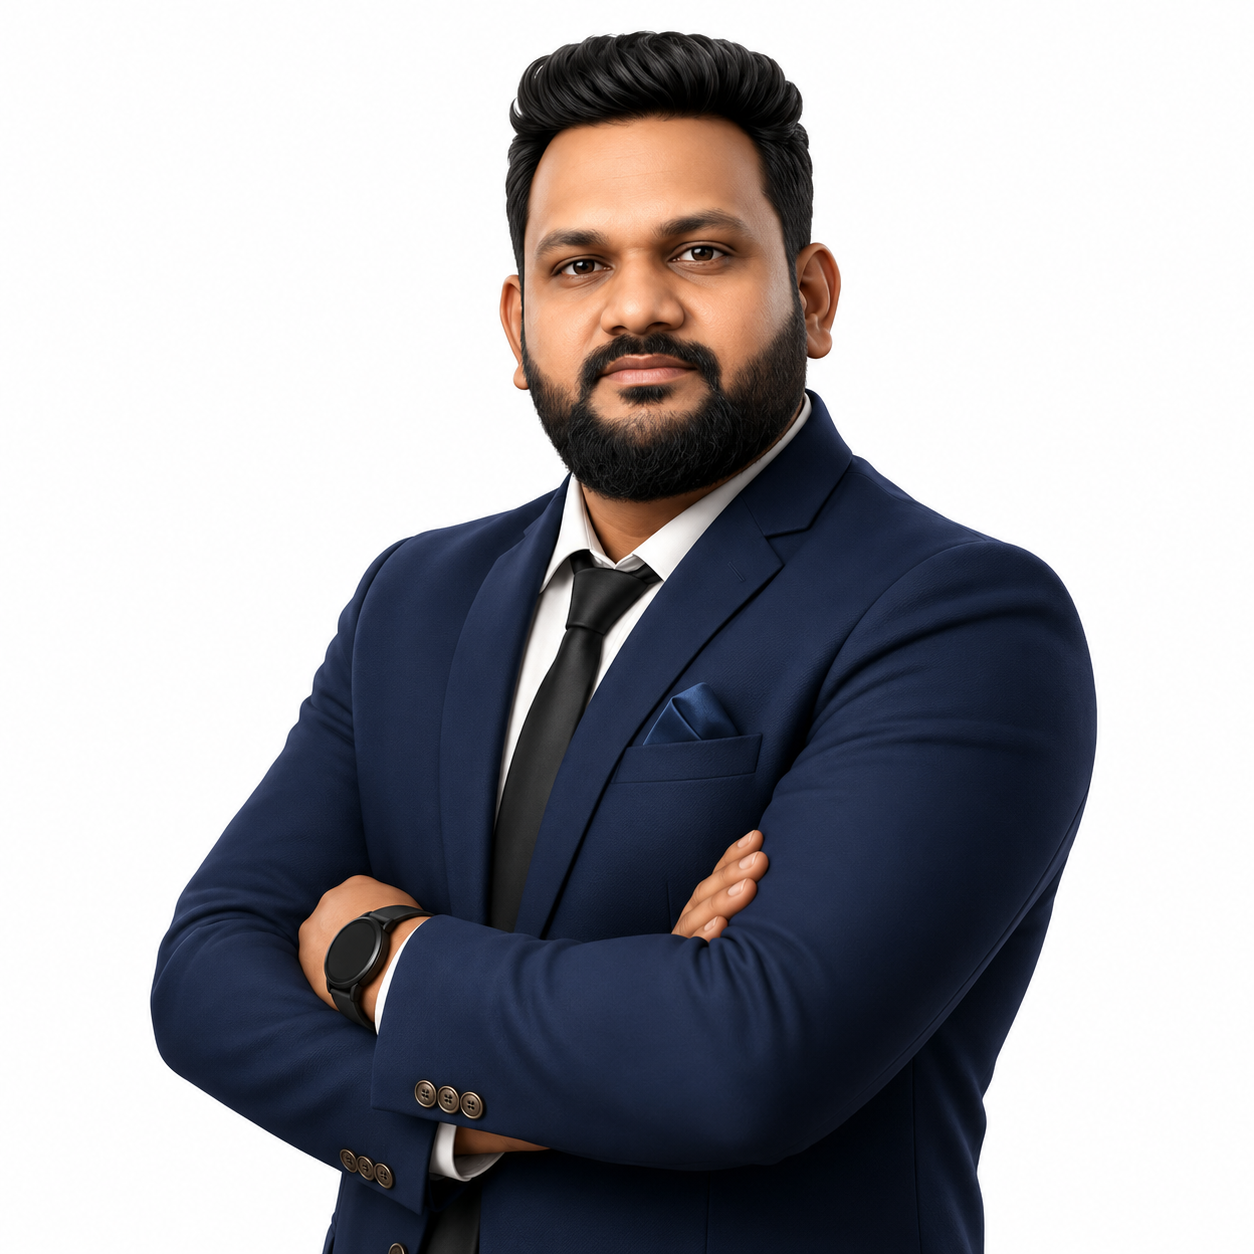
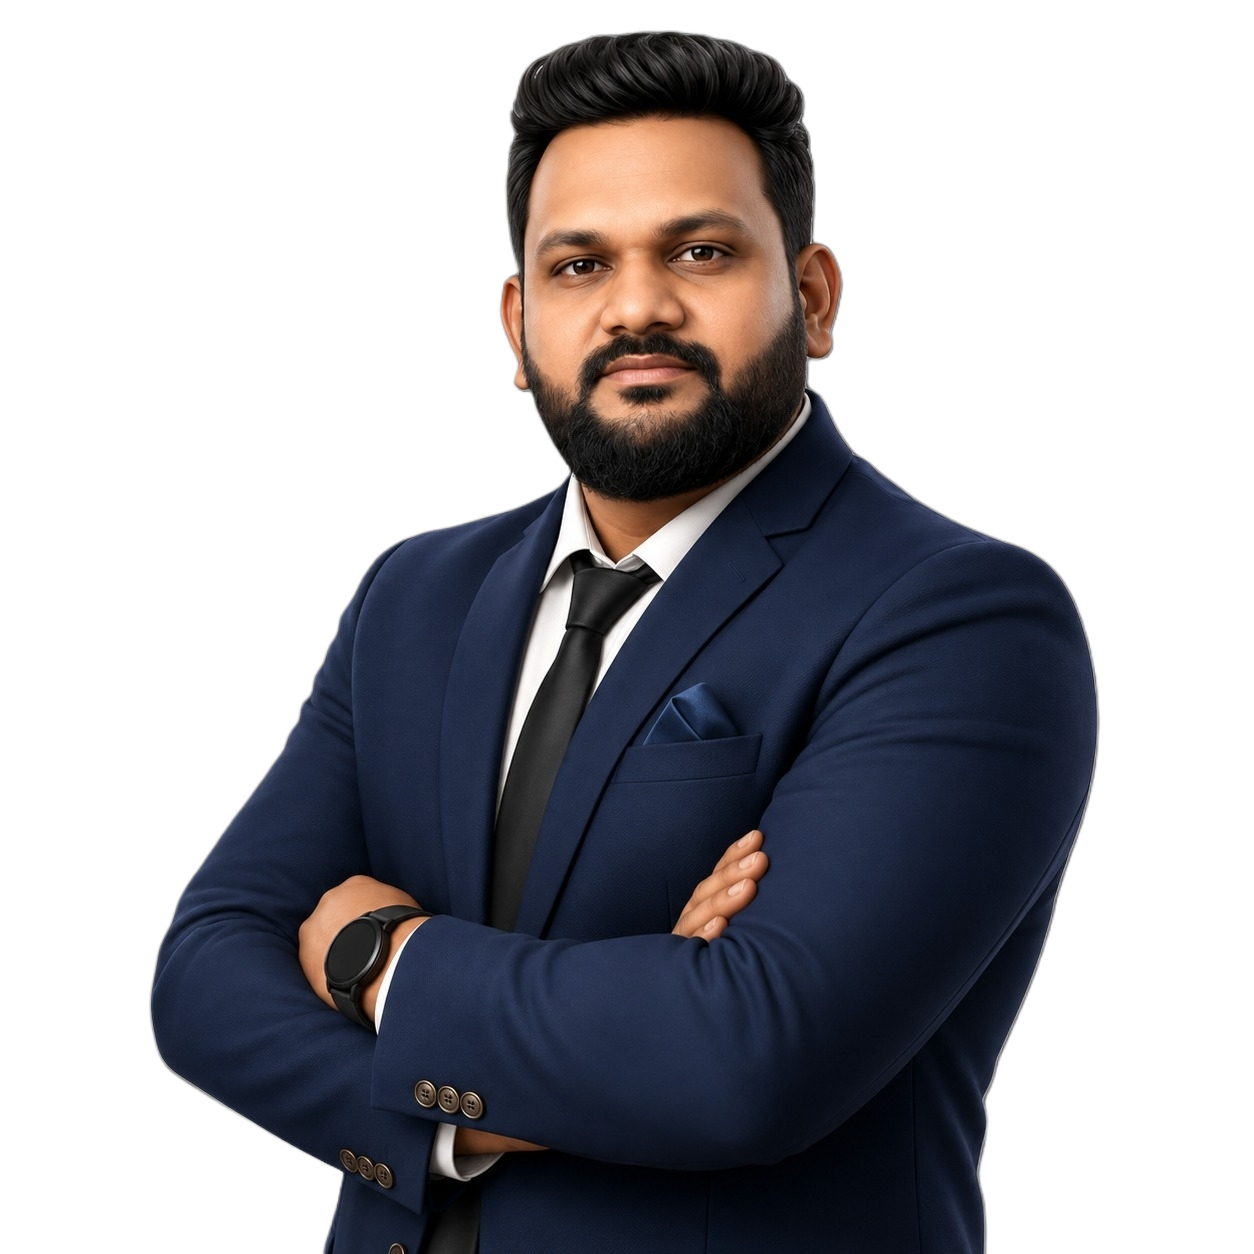
design

Changed region(s): [[0.4354, 0.3421, 0.4665, 0.3732], [0.4043, 0.311, 0.4354, 0.3421], [0.4043, 0.0622, 0.4354, 0.0933]]

diff --git a/src/components/CTAButton.tsx b/src/components/CTAButton.tsx
@@ -1,4 +1,5 @@
 import { Link, type LinkProps } from 'react-router-dom'
+import { useRef, useState } from 'react'
 
 type CTAButtonVariant = 'solid' | 'outline'
 
@@ -21,6 +22,40 @@ const variants: Record<CTAButtonVariant, string> = {
   outline: 'border-2 border-accent text-accent bg-transparent hover:bg-accent hover:text-white',
 }
 
+function MagnetWrapper({ children, disabled }: { children: React.ReactNode; disabled?: boolean }) {
+  const wrapperRef = useRef<HTMLDivElement>(null)
+  const [transform, setTransform] = useState('')
+
+  const handleMouseMove = (e: React.MouseEvent<HTMLDivElement>) => {
+    if (disabled) return
+    const wrapper = wrapperRef.current
+    if (!wrapper) return
+
+    const rect = wrapper.getBoundingClientRect()
+    const x = e.clientX - rect.left - rect.width / 2
+    const y = e.clientY - rect.top - rect.height / 2
+
+    // Magnet strength - adjust as needed
+    const strength = 0.3
+    setTransform(`translate(${x * strength}px, ${y * strength}px)`)
+  }
+
+  const handleMouseLeave = () => {
+    setTransform('')
+  }
+
+  return (
+    <div
+      ref={wrapperRef}
+      style={{ transform, display: 'inline-block' }}
+      onMouseMove={handleMouseMove}
+      onMouseLeave={handleMouseLeave}
+    >
+      {children}
+    </div>
+  )
+}
+
 export default function CTAButton({
   children,
   variant = 'solid',
@@ -33,25 +68,25 @@ export default function CTAButton({
 }: CTAButtonProps) {
   const classes = `${base} ${variants[variant]} ${className}`
 
-  if (to) {
-    return (
-      <Link to={to} className={classes}>
-        {children}
-      </Link>
-    )
-  }
-
-  if (href) {
-    return (
-      <a href={href} className={classes} target="_blank" rel="noopener noreferrer">
-        {children}
-      </a>
-    )
-  }
-
-  return (
+  const buttonElement = (
     <button type={type} onClick={onClick} disabled={disabled} className={classes}>
       {children}
     </button>
   )
+
+  const linkElement = (
+    <Link to={to} className={classes}>
+      {children}
+    </Link>
+  )
+
+  const anchorElement = (
+    <a href={href} className={classes} target="_blank" rel="noopener noreferrer">
+      {children}
+    </a>
+  )
+
+  const content = to ? linkElement : href ? anchorElement : buttonElement
+
+  return <MagnetWrapper disabled={disabled}>{content}</MagnetWrapper>
 }

diff --git a/src/sections/Testimonials.tsx b/src/sections/Testimonials.tsx
@@ -1,5 +1,5 @@
 import { useState } from 'react'
-import { ArrowRight, Quote } from 'lucide-react'
+import { Quote } from 'lucide-react'
 import { testimonials } from '../config/content'
 import SectionTag from '../components/SectionTag'
 
@@ -42,20 +42,26 @@ export default function Testimonials() {
   return (
     <section className="bg-gray-light px-4 py-12 lg:px-8 lg:py-20">
       <div className="mx-auto max-w-7xl">
-        <div className="mb-10 flex flex-col items-center text-center lg:flex-row lg:justify-between lg:text-left">
-          <div>
-            <SectionTag className="mb-4">Testimonials</SectionTag>
-            <h2 className="text-2xl font-bold text-navy lg:text-4xl">What Our Students Say</h2>
+        <div className="mb-10 text-center lg:text-left">
+          <SectionTag className="mb-4">Testimonials</SectionTag>
+          <h2 className="text-2xl font-bold text-navy lg:text-4xl">What Our Students Say</h2>
+        </div>
+        <div className="grid gap-8 lg:grid-cols-3 lg:items-center">
+          <div className="lg:col-span-2 grid gap-8 lg:grid-cols-2">
+            {testimonials.map((t) => (
+              <TestimonialCard key={t.id} {...t} />
+            ))}
           </div>
-          <ArrowRight className="mt-4 hidden h-10 w-10 text-accent lg:block" />
-        </div>
-        <div className="grid gap-8 lg:grid-cols-2">
-          {testimonials.map((t) => (
-            <TestimonialCard key={t.id} {...t} />
-          ))}
-        </div>
-        <div className="mt-10 hidden justify-center lg:flex">
-          <img src={testimonials[0].image} alt="" className="h-48 w-48 rounded-full border-4 border-accent object-cover shadow-xl" />
+          <div className="lg:col-span-1 flex justify-center lg:justify-end">
+            <div className="relative">
+              <div className="absolute inset-0 bg-gradient-to-br from-orange-400 via-pink-500 to-purple-500 rounded-full blur-3xl opacity-60 scale-110"></div>
+              <img
+                src="/testimonial.png"
+                alt="Testimonial"
+                className="relative h-[300px] w-[300px] lg:h-[450px] lg:w-[450px] object-contain"
+              />
+            </div>
+          </div>
         </div>
       </div>
     </section>

diff --git a/src/sections/HeroSection.tsx b/src/sections/HeroSection.tsx
@@ -32,10 +32,10 @@ export default function HeroSection() {
     <section className="bg-gray-light px-4 py-12 lg:px-8 lg:py-20">
       <div className="mx-auto grid max-w-7xl items-center gap-10 lg:grid-cols-2 lg:gap-16">
         <div>
-          <SectionTag className="mb-4">{tag}</SectionTag>
+          <SectionTag className="mb-8 text-lg px-6 py-2">{tag}</SectionTag>
           <h1 className="mb-6 text-3xl font-extrabold leading-tight text-navy sm:text-4xl lg:text-5xl">
             {headline.map((line, i) => (
-              <span key={line} className="block">
+              <span key={line} className="inline">
                 {i === underlineIndex ? (
                   <span className="underline decoration-accent decoration-4 underline-offset-4">{line}</span>
                 ) : (
@@ -45,18 +45,16 @@ export default function HeroSection() {
             ))}
           </h1>
           <p className="mb-8 max-w-lg text-base leading-relaxed text-gray-600">{subtext}</p>
-          <CTAButton to="/contact">{ctaText}</CTAButton>
+          <CTAButton to="/contact" className="px-8 py-4 text-sm">{ctaText}</CTAButton>
         </div>
 
-        <div className="relative mx-auto w-full max-w-lg lg:max-w-none">
-          <div className="overflow-hidden rounded-2xl shadow-xl">
-            <img
-              ref={imageRef}
-              src={image}
-              alt="Students learning trading"
-              className={`aspect-[4/3] w-full object-cover ${isRevealed ? 'reveal-from-bottom' : ''}`}
-            />
-          </div>
+        <div className="relative mx-auto w-full max-w-sm lg:max-w-sm">
+          <img
+            ref={imageRef}
+            src={image}
+            alt="Students learning trading"
+            className={`aspect-[3/4] w-full object-cover ${isRevealed ? 'reveal-from-bottom' : ''}`}
+          />
           {badges.map((badge) => (
             <div
               key={badge.text}

diff --git a/src/components/Navbar.tsx b/src/components/Navbar.tsx
@@ -26,10 +26,8 @@ export default function Navbar() {
       <header className="sticky top-0 z-40 border-b border-gray-100 bg-white/95 backdrop-blur-sm">
         <div className="mx-auto flex max-w-7xl items-center justify-between px-4 py-3 lg:px-8">
           <Link to="/" className="flex items-center gap-2">
-            <div className="flex h-10 w-10 items-center justify-center rounded-lg bg-navy text-white">
-              <TrendingUp className="h-5 w-5" />
-            </div>
-            <span className="text-lg font-bold text-navy">{siteConfig.name}</span>
+              <img src="/logo.jpeg" alt="Global Trading Academy" className="h-10 w-10 rounded-lg object-contain" />
+              <span className="text-lg font-bold text-navy">{siteConfig.name}</span>
           </Link>
 
           <nav className="hidden items-center gap-6 lg:flex">
@@ -96,7 +94,10 @@ export default function Navbar() {
           <div className="absolute inset-0 bg-black/40" onClick={() => setMobileOpen(false)} aria-hidden />
           <div className="absolute right-0 top-0 flex h-full w-[min(320px,85vw)] flex-col bg-white shadow-xl">
             <div className="flex items-center justify-between border-b px-4 py-4">
-              <span className="font-bold text-navy">{siteConfig.name}</span>
+              <div className="flex items-center gap-2">
+                <img src="/logo.jpeg" alt="Global Trading Academy" className="h-8 w-8 rounded-lg object-contain" />
+                <span className="font-bold text-navy">{siteConfig.name}</span>
+              </div>
               <button type="button" onClick={() => setMobileOpen(false)} aria-label="Close menu">
                 <X className="h-6 w-6" />
               </button>

diff --git a/src/config/content.ts b/src/config/content.ts
@@ -23,12 +23,11 @@ export const courses = [
 ]
 
 export const heroContent = {
-  tag: "India's Leading Trading Academy",
-  headline: ['Learn to Trade', 'Like a Pro', 'From Experts'],
+  tag: 'తెలుగు లో',
+  headline: ['Learn ', 'Stock Market', ' From Zero'],
   underlineIndex: 1,
-  subtext:
-    'Join thousands of students who transformed their financial journey with our expert-led courses, live market sessions, and hands-on mentorship.',
-  ctaText: 'Enroll Now',
+  subtext: 'Start Your Successful Stock Market Journey In Our Institute!',
+  ctaText: 'ENROLL NOW',
   image: '/sharoof.png',
   badges: [
     { text: '7+ Years of Experience', position: 'top-left' as const },

diff --git a/src/components/Footer.tsx b/src/components/Footer.tsx
@@ -9,9 +9,7 @@ export default function Footer() {
         <div className="grid gap-10 sm:grid-cols-2 lg:grid-cols-4">
           <div>
             <div className="mb-4 flex items-center gap-2">
-              <div className="flex h-10 w-10 items-center justify-center rounded-lg bg-white/10">
-                <TrendingUp className="h-5 w-5" />
-              </div>
+              <img src="/logo.jpeg" alt="Global Trading Academy" className="h-10 w-10 rounded-lg object-contain" />
               <span className="text-lg font-bold">{siteConfig.name}</span>
             </div>
             <ul className="space-y-3 text-sm text-white/70">

diff --git a/index.html b/index.html
@@ -8,7 +8,8 @@
   -->
   <head>
     <meta charset="UTF-8" />
-    <link rel="icon" type="image/svg+xml" href="/favicon.svg" />
+    <link rel="icon" type="image/png" href="/logo.jpeg" />
+    <!-- <link rel="icon" type="image/svg+xml" href="/favicon.svg" /> -->
     <meta name="viewport" content="width=device-width, initial-scale=1.0" />
     <link rel="preconnect" href="https://fonts.googleapis.com" />
     <link rel="preconnect" href="https://fonts.gstatic.com" crossorigin />